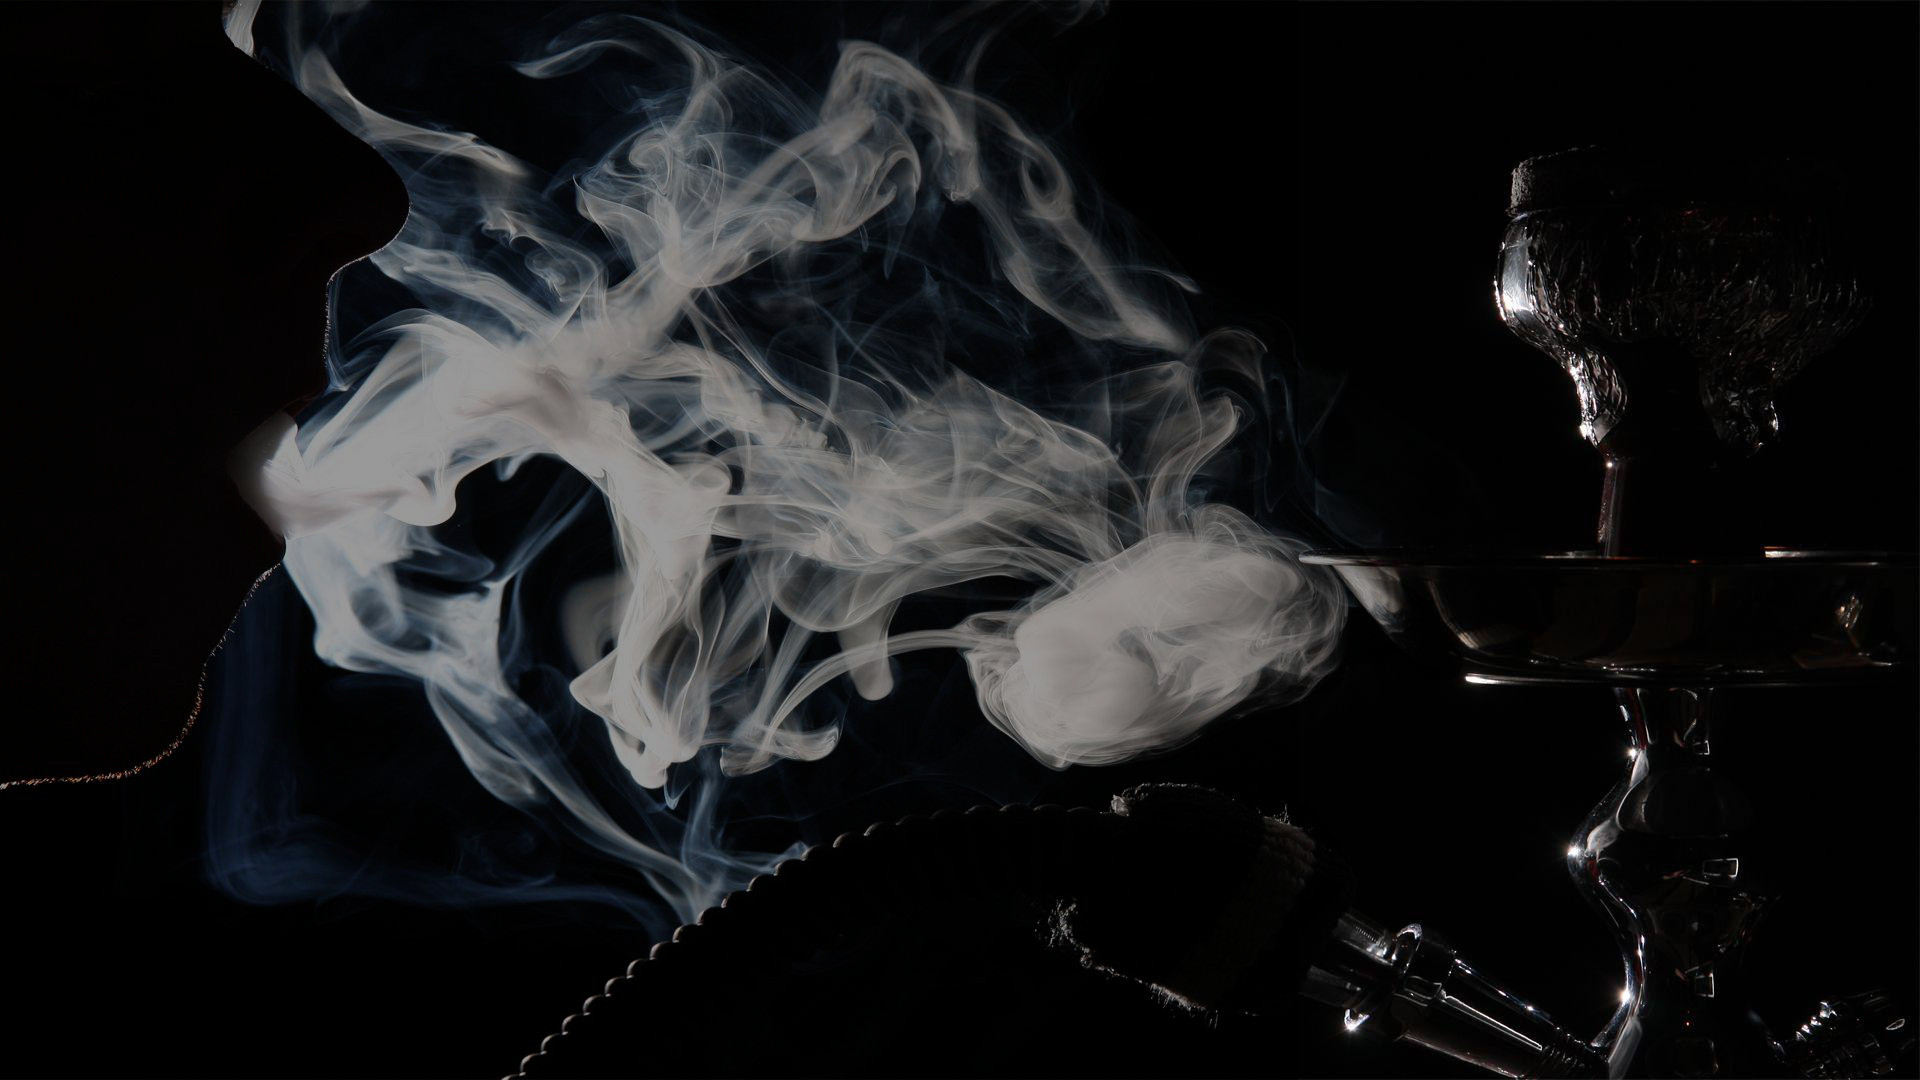
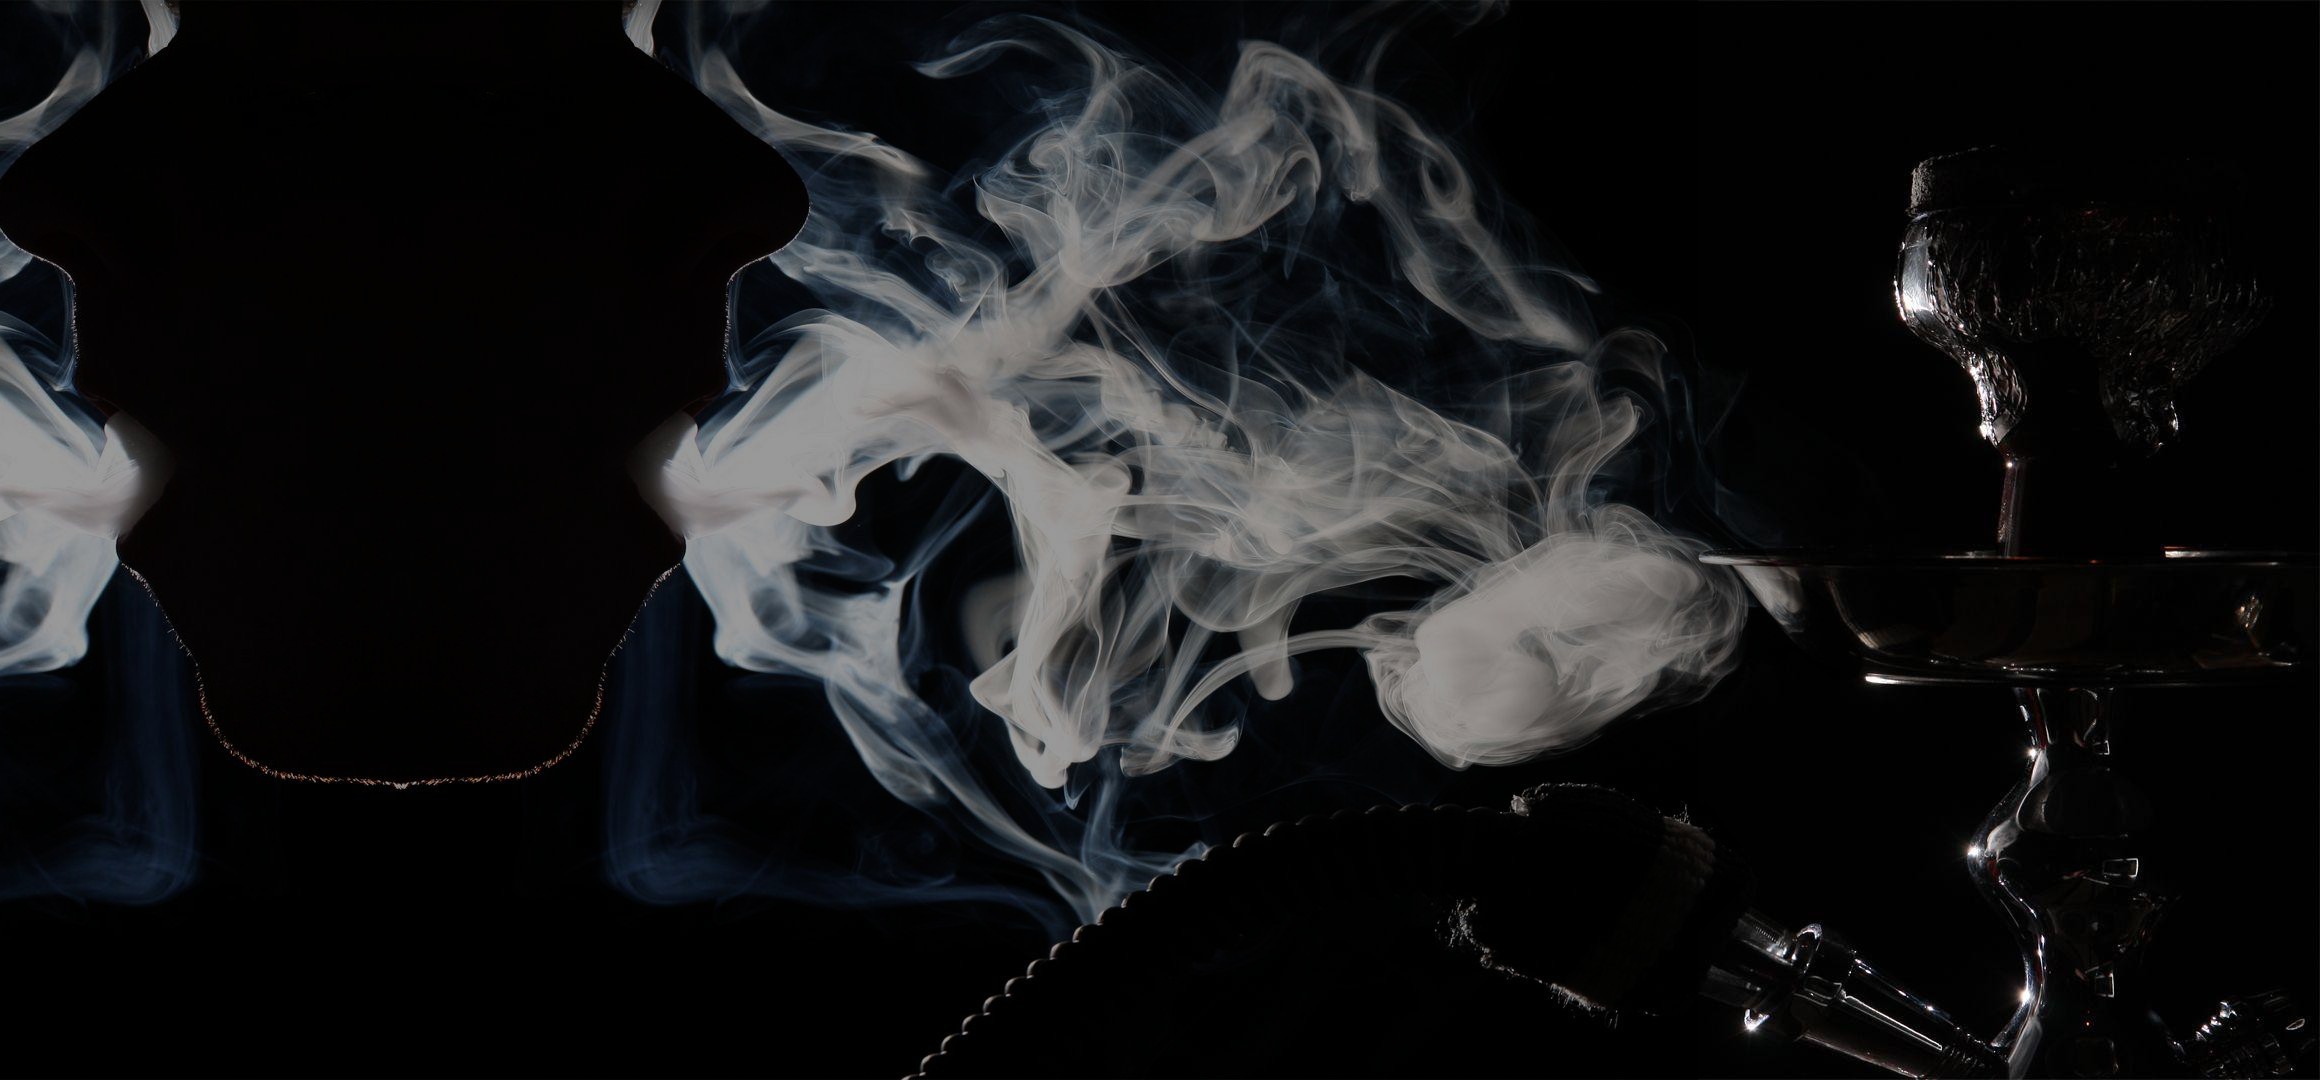
ready v0.25 bg image fix

diff --git a/public/css/style.css b/public/css/style.css
@@ -3,14 +3,13 @@ body{
     font-family: 'Gill Sans', 'Gill Sans MT', Calibri, 'Trebuchet MS', sans-serif;
     background-color: rgb(112, 159, 252);
     color: white;
-    position: relative;
+    background-size: cover;
     min-height: 100vh;
     background: url("/img/hookah-background.jpg");
-    background-size: 100%;
-    position: sticky;
-    top:0;
-    bottom: 0;
-    
+    background-position: right;
+    background-repeat: no-repeat;
+    background-attachment: fixed;
+    position: relative;
 }
 main{
     
